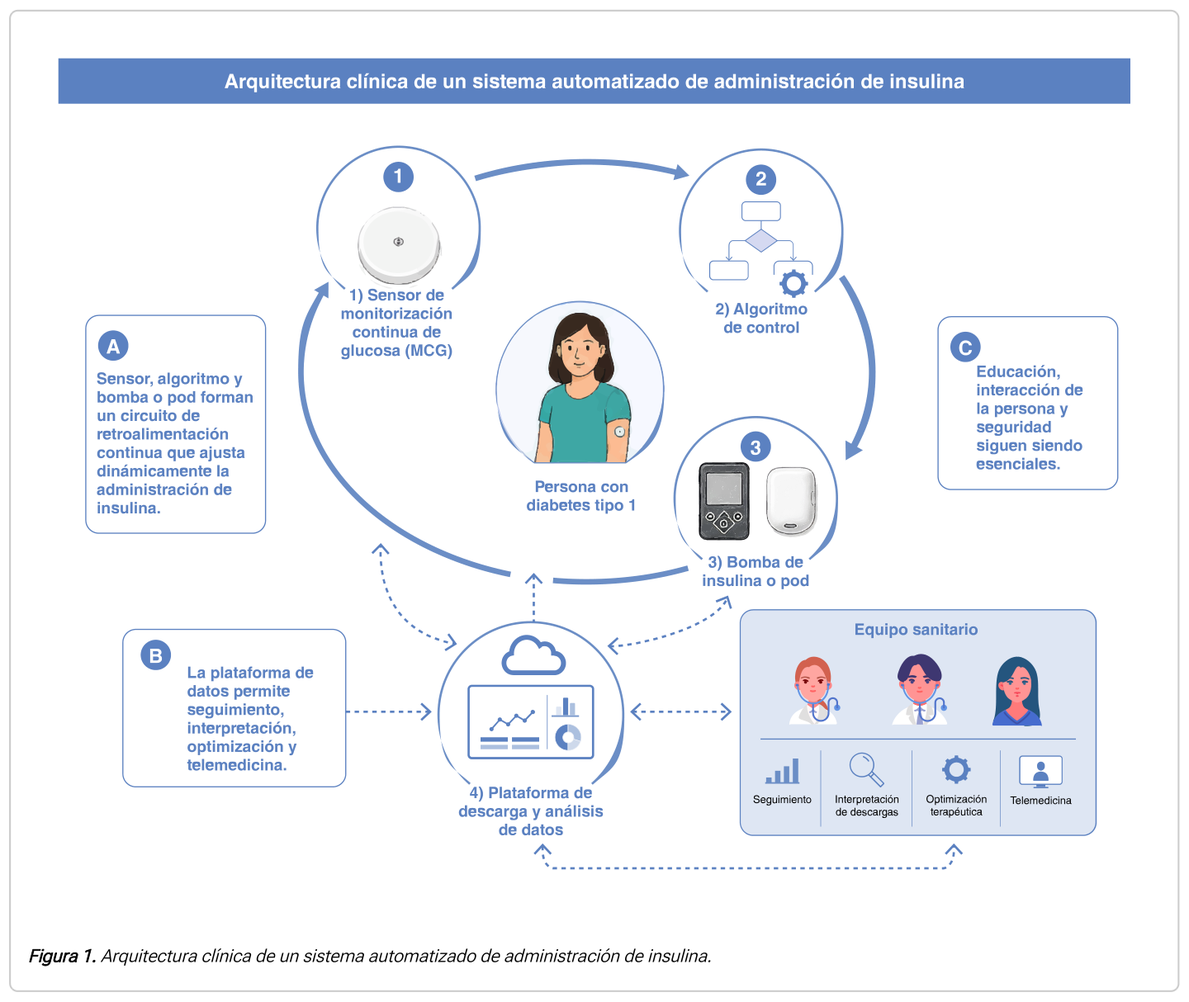
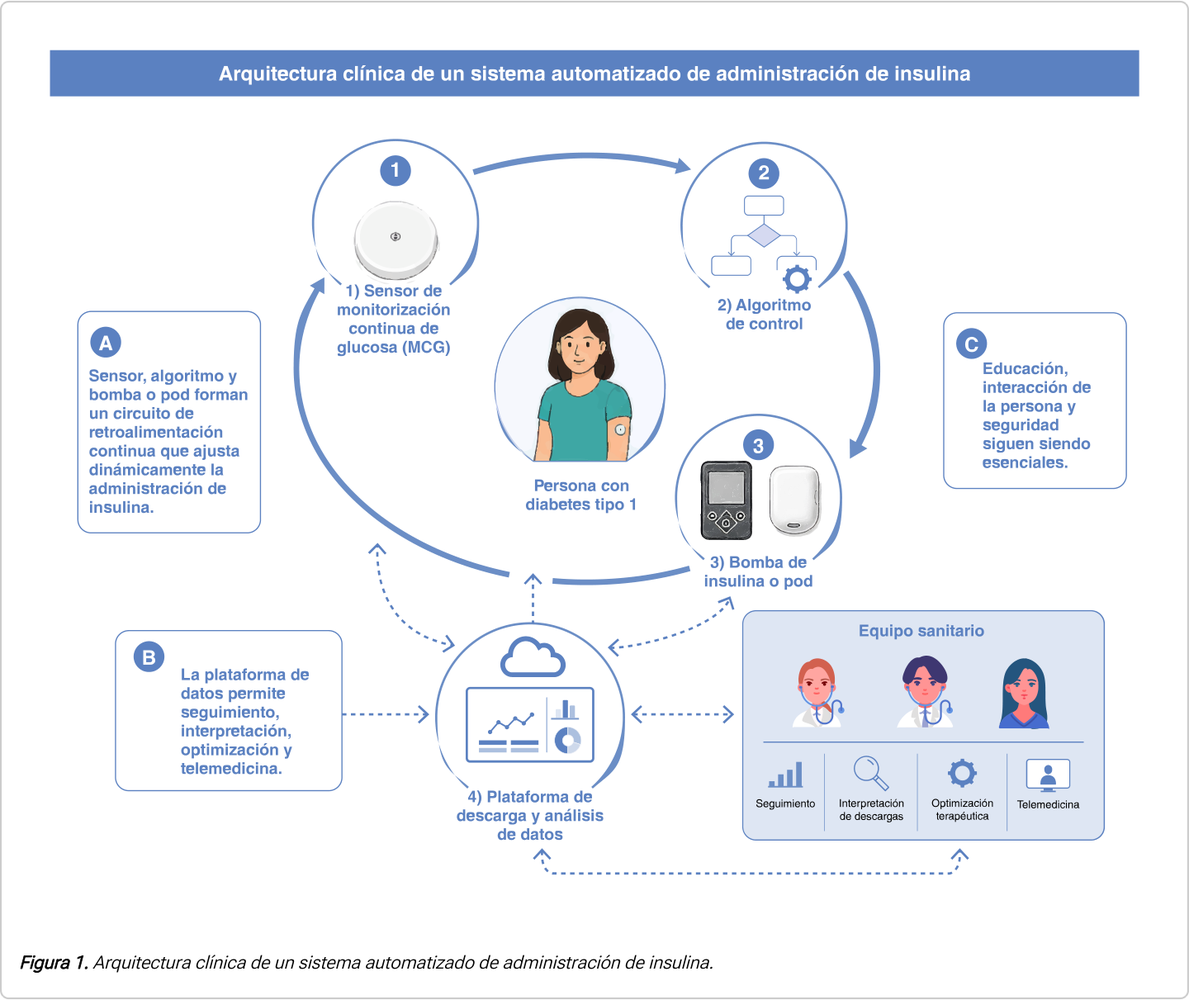
0.11.0: el capítulo de la maquetación del 5-10-2026
- Fuente única: la maquetación de ec-europe del 5-10-2026, que ya trae las
  11 correcciones del 30-9; se aplican las 3 correcciones finales anotadas
  por el autor (Control-IQ+ en la Tabla 1, iSGLT2 en la p. 15 y DOI de la
  ref. 6). Con iSGLT2 ya no hay umbral rebajado a 200 mg/dl: sale de las
  cifras y de las tarjetas.
- Páginas al día (apartado 7, pp. 8-10; Tabla 3 en la p. 11).
- Figuras 1-3 e infografía recortadas de la nueva maquetación (vectorial,
  1440 px, sin anotaciones, WebP sin pérdida), ya con las correcciones.
- Información para pacientes: la maquetación del 5-10 es igual a la V5.
- Auditoría: pie de página genérico en fidelidad.py y PDF nuevo por defecto.

diff --git a/src/contenido/cambios.ts b/src/contenido/cambios.ts
@@ -8,13 +8,35 @@ export interface Cambio {
   detalle: string[];
 }
 
-export const VERSION_APP = "0.10.0";
+export const VERSION_APP = "0.11.0";
 
 export const CAMBIOS: Cambio[] = [
   {
+    fecha: "2026-10-06",
+    ambito: "app",
+    titulo: `Manual SEEN · AID ${VERSION_APP} — el capítulo de la maquetación del 5-10-2026`,
+    detalle: [
+      "El texto pasa a la última maquetación de la editorial (5-10-2026), que ya incorpora las 11 correcciones del 30-9. La app aplica además las 3 correcciones finales que el autor ha anotado en ella.",
+      "Resolución de incidencias (p. 15): en personas tratadas con iSGLT2 ya no se habla de rebajar el umbral a 200 mg/dl; «debe mantenerse una alta sospecha de cetoacidosis y medirse la cetonemia ante síntomas o situaciones de riesgo, con independencia del nivel de glucemia». Esa cifra sale de «Cifras del apartado» y de las tarjetas.",
+      "La Figura 3, la infografía y las Figuras 1 y 2 se ven ahora con la imagen de la nueva maquetación, más nítida y ya con las correcciones de la editorial (la columna amarilla de la cetonemia, la nota del asterisco de las dosis, «DM1», «En modalidades híbridas»…).",
+      "Páginas al día con la nueva maquetación: el final del párrafo de la hipoglucemia pasa a la p. 9, «Capacitación del equipo asistencial» a la p. 10 y la Tabla 3 a la p. 11.",
+      "La información para pacientes que maqueta la editorial el 5-10-2026 es ya, palabra por palabra, la versión V5 del autor que mostraba la app.",
+    ],
+  },
+  {
+    fecha: "2026-10-05",
+    ambito: "capitulo",
+    titulo: "Capítulo: nueva maquetación con 3 correcciones finales",
+    detalle: [
+      "La editorial (ec-europe) entrega una nueva maquetación de 25 páginas con las 11 correcciones del 30-9 incorporadas en el texto, las tablas, la Figura 3 y la infografía.",
+      "El autor anota 3 correcciones finales, que esta app ya aplica: la indicación de Control-IQ+ en la Tabla 1 («peso 9–200 kg, DTD 5–200 UI/día»), la frase sobre los iSGLT2 de la p. 15 y el DOI de la referencia 6.",
+      "La información para pacientes maquetada coincide con la versión V5 del autor.",
+    ],
+  },
+  {
     fecha: "2026-10-04",
     ambito: "app",
-    titulo: `Manual SEEN · AID ${VERSION_APP} — más fácil de usar y un buscador que entiende mejor`,
+    titulo: "Manual SEEN · AID 0.10.0 — más fácil de usar y un buscador que entiende mejor",
     detalle: [
       "El buscador entiende mejor la forma de preguntar: palabras de la calle («bajada», «me pita», «el parche», «bultos en la barriga», «hidratos de mentira»), faltas de ortografía («bomitos», «asucar»), verbos y edades («mi hijo de 1 año», «mi madre tiene 80 años»), siglas por su nombre («dosis total diaria» = DTD) y cifras de cetonemia escritas delante («0,3 de cetonas»).",
       "Si dos frases del mismo párrafo responden, salen juntas. Si nada responde de lleno, o la respuesta es dudosa, se rotula «Lo más cercano en el capítulo» en lugar de presentarla como la respuesta; y si no hay nada, propone las situaciones de «¿Qué necesitas?».",
@@ -233,12 +255,12 @@ export const CAMBIOS: Cambio[] = [
 export const PENDIENTES: string[] = [
   "El permiso de la SEEN y de la editorial (ec-europe) para esta versión web, y dónde se alojará.",
   "Que el autor valide las diez preguntas del test (hoy, «pendiente de validación del autor»).",
-  "La versión de la editorial con las 11 correcciones del capítulo (esta app ya las aplica).",
+  "Que la editorial pase al capítulo las 3 correcciones finales del autor del 5-10-2026 (esta app ya las aplica).",
   "El ISBN y la fecha de publicación del capítulo en el Manual SEEN, para «Cómo citar».",
 ];
 
 export const NOTAS_AUTOR: string[] = [
-  "Que la editorial publique la información para pacientes en la versión corregida V5 del autor, que es la que muestra esta app.",
+  "Dos detalles de la Figura 3 que pedía la corrección 5/11 y que la maquetación del 5-10-2026 no deja del todo: en la columna roja sigue «pauta especifica» sin tilde (la transcripción de la app la lleva) y las líneas que bajan a las columnas amarilla y naranja no tienen punta de flecha, a diferencia de las de los extremos.",
   "Las diferencias entre el capítulo y la ampliación del autor (asistente-aid): ratio I/HC, tipo de algoritmo de Control-IQ, autocorrección de MiniMed 780G, fecha de verificación y otras (auditoría del 2-10-2026). Llevan la marca «Difiere del capítulo» en la ficha la ratio I/HC, el tipo de algoritmo de Control-IQ y la autocorrección de la 780G; el resto, hasta que el autor decida, solo figura aquí.",
   "Tres matices de la versión extendida frente al capítulo, para que el autor decida si los deja, los precisa o los retira: E04 («ajustar si hay hiperglucemia persistente», cuando el capítulo pide descartar antes fallo de infusión), E28 («el objetivo se eleva antes de reducir el bolo, no en paralelo») y E07 (control desde el móvil, cuando en España es con el controlador).",
   "Dos frases de la información para pacientes V5 que el autor puede querer completar con el capítulo: los 5-10 g de hidratos en la hipoglucemia (sin la condición de 54-70 mg/dl y flecha estable) y la desconexión de la bomba con tubo (sin «suspender o pausar la administración»).",

diff --git a/src/pantallas/Otras.tsx b/src/pantallas/Otras.tsx
@@ -381,6 +381,14 @@ function NotasAutor() {
 }
 
 /* ---------- Sobre esta versión ---------- */
+/* Anotadas por el autor en la maquetación del 5-10-2026; la editorial aún no las ha pasado. */
+const CORRECCIONES_FINALES = [
+  "Final 1/3 (p. 4, Tabla 1, Control-IQ+): «peso 9–200 kg, DTD 5–200 UI/día».",
+  "Final 2/3 (p. 15, Resolución de incidencias): con iSGLT2 ya no se rebaja el umbral a 200 mg/dl; «debe mantenerse una alta sospecha de cetoacidosis y medirse la cetonemia ante síntomas o situaciones de riesgo, con independencia del nivel de glucemia».",
+  "Final 3/3 (p. 25, bibliografía): «doi:10.2337/dci26-0122» al final de la referencia 6.",
+];
+
+/* Las 11 del 30-9-2026: la maquetación del 5-10-2026 ya las trae. */
 const CORRECCIONES = [
   "1/11 (p. 3): «control predictivo basado en modelo (MPC) y lógica difusa».",
   "2/11 (pp. 3–4): «Sistemas AID comercializados en España» en el texto y en el título de la Tabla 1.",
@@ -391,9 +399,8 @@ const CORRECCIONES = [
   "7/11 (p. 11, Tabla 4): fila «Ejercicio anaeróbico o de alta intensidad» reconstruida como fila normal con una celda común a los cuatro sistemas.",
   "8/11 (p. 21, Tabla 6): «Tomografía computarizada (TC)».",
   "9/11 (p. 24, infografía): «En modalidades híbridas»; «Requieren anuncio de comidas y bolo prandial»; «DM1»; «Mejora consistente del control glucémico con buen perfil de seguridad»; «Bomba de insulina o pod»; «Iniciar».",
-  "10/11 (p. 24, bibliografía): referencia 6 completa (Holt RIG et al., Diabetes Care 2026, doi:10.2337/dci26-0122).",
+  "10/11 (pp. 24–25, bibliografía): referencia 6 completa (Holt RIG et al., Diabetes Care 2026); el DOI es la corrección final 3/3.",
   "11/11 (encabezado gráfico de todas las páginas): no afecta al texto; no aplica a la app.",
-  "Errata que el autor corregirá en la editorial, ya aplicada aquí (Tabla 1, Control-IQ+): «peso 9–200 kg, DTD 5–200 UI/día».",
 ];
 
 export function Sobre() {
@@ -430,10 +437,10 @@ export function Sobre() {
         <h2 className="mt-5 text-base font-extrabold text-slate-900">Fuente única</h2>
         <p className="mt-2 text-sm">
           El texto es el del capítulo, literal, de la maquetación final del {CAPITULO.fechaFuente} (
-          {CAPITULO.editorial}, {CAPITULO.paginas} páginas), con las 11 correcciones editoriales
-          anotadas aplicadas. Cada bloque lleva la página de origen. No hay contenido inventado ni
-          traído de otras fuentes; las figuras, que en el PDF son imágenes, están transcritas caja a
-          caja.
+          {CAPITULO.editorial}, {CAPITULO.paginas} páginas), que ya incorpora las 11 correcciones
+          editoriales del 30-9-2026, con las 3 correcciones finales anotadas por el autor aplicadas.
+          Cada bloque lleva la página de origen. No hay contenido inventado ni traído de otras
+          fuentes; las figuras, que en el PDF son imágenes, están transcritas caja a caja.
         </p>
         <h2 className="mt-5 text-base font-extrabold text-slate-900">
           El capítulo y, aparte, lo que no es del capítulo
@@ -453,9 +460,9 @@ export function Sobre() {
             de cada sistema, validada en su proyecto asistente-aid, con sus fuentes.
           </li>
           <li>
-            <strong>Para el paciente</strong>: la información para pacientes (versión corregida V5
-            del autor) y el resumen del capítulo (maquetación de la editorial), literales; y el plan
-            de seguridad de cada sistema, hecho solo con texto del capítulo.
+            <strong>Para el paciente</strong>: la información para pacientes y el resumen del
+            capítulo, literales, tal como los maqueta la editorial; y el plan de seguridad de cada
+            sistema, hecho solo con texto del capítulo.
           </li>
           <li>
             <strong>Autoevaluación</strong>: las preguntas del autor, rotuladas «pendiente de
@@ -491,6 +498,24 @@ export function Sobre() {
         <h2 id="s-corr" className="text-base font-extrabold text-slate-900">
           Correcciones editoriales aplicadas
         </h2>
+        <h3 className="mt-3 text-sm font-bold text-slate-900">
+          Las 3 correcciones finales del autor (maquetación del 5-10-2026)
+        </h3>
+        <ol className="mt-2 space-y-1 text-sm text-slate-700">
+          {CORRECCIONES_FINALES.map((c, i) => (
+            <li key={i} className="flex gap-2">
+              <CheckCircle2
+                size={15}
+                className="mt-0.5 shrink-0 text-emerald-700"
+                aria-hidden="true"
+              />
+              <span>{c}</span>
+            </li>
+          ))}
+        </ol>
+        <h3 className="mt-4 text-sm font-bold text-slate-900">
+          Las 11 del 30-9-2026, que la maquetación del 5-10-2026 ya incorpora
+        </h3>
         <ol className="mt-2 space-y-1 text-sm text-slate-700">
           {CORRECCIONES.map((c, i) => (
             <li key={i} className="flex gap-2">

diff --git a/src/contenido/apartados/07-09.ts b/src/contenido/apartados/07-09.ts
@@ -60,14 +60,14 @@ export const A07: Apartado = {
     {
       t: "p",
       p: 8,
+      p2: 9,
       texto:
         "En determinados episodios de hipoglucemia leve, sobre todo cuando el algoritmo ya ha reducido o suspendido la infusión y no existe insulina activa relevante, pueden bastar cantidades menores que la regla clásica de 15 g: como orientación, 5-10 g ante glucemia 54-70 mg/dl con flecha estable o ascendente, reservando cantidades en torno a 15 g para glucemia < 54 mg/dl, doble flecha descendente o insulina activa significativa. Debe reevaluarse con glucosa capilar a los 15 min y evitarse el sobretratamiento; la evidencia específica en AID es aún limitada, por lo que conviene individualizar. Los hidratos para tratar la hipoglucemia no deben anunciarse como comida; en CamAPS FX existe la opción de registrarlos como “tratamiento de hipoglucemia”, que los documenta y suaviza la entrega de insulina sin contabilizarlos como ingesta.",
     },
     { t: "diagrama", p: 8, id: "hipoglucemia" },
     {
       t: "p",
-      p: 8,
-      p2: 9,
+      p: 9,
       texto:
         "La segunda regla es que toda hiperglucemia persistente sin causa clara debe hacer sospechar fallo de infusión hasta demostrar lo contrario. Esta regla debe enseñarse en el PEET, practicarse con casos y quedar por escrito.",
     },
@@ -114,11 +114,10 @@ export const A07: Apartado = {
       texto:
         "En personas con alto riesgo de abandono de la tecnología, baja alfabetización digital, idioma diferente o ausencia de cuidador entrenado, el PEET debe simplificarse y priorizar objetivos de seguridad: manejo de hipoglucemia, hiperglucemia persistente, cuerpos cetónicos, recambio del sistema y pauta alternativa. La optimización fina de parámetros puede posponerse hasta confirmar que estas competencias básicas están consolidadas.",
     },
-    { t: "h3", p: 9, id: "capacitacion", texto: "Capacitación del equipo asistencial" },
+    { t: "h3", p: 10, id: "capacitacion", texto: "Capacitación del equipo asistencial" },
     {
       t: "p",
-      p: 9,
-      p2: 10,
+      p: 10,
       texto:
         "La implementación segura no depende solo de la educación de la persona, sino de la capacitación del equipo: conocer las diferencias entre sistemas, acompañar la elección, iniciar y configurar el dispositivo, interpretar descargas, optimizar parámetros y resolver incidencias son competencias que exigen formación específica y mantenimiento. Disponer de programas formativos escalonados y circuitos asistenciales claros reduce la variabilidad en el acceso y en la calidad; esta capacitación es más decisiva cuanto menor es la experiencia del equipo con un sistema concreto o mayor la complejidad del caso.",
     },
@@ -140,7 +139,7 @@ export const A08: Apartado = {
     },
     { t: "tabla", p: 10, id: "T2" },
     { t: "diagrama", p: 10, id: "transicion" },
-    { t: "tabla", p: 10, id: "T3" },
+    { t: "tabla", p: 11, id: "T3" },
     { t: "tabla", p: 11, id: "T4" },
     {
       t: "p",
@@ -282,7 +281,7 @@ export const A09: Apartado = {
       p: 15,
       lead: "Hiperglucemia persistente y sospecha de fallo de infusión.",
       texto:
-        "Una glucemia ≥ 250 mg/dl persistente (orientativamente ≥ 2 h) o cualquier hiperglucemia inexplicada que no responde a la corrección debe interpretarse como sospecha de fallo del set. En personas tratadas con iSGLT2 —por indicación cardiorrenal o fuera de ficha técnica en la DM1— conviene rebajar este umbral a 200 mg/dl y mantener alta la sospecha de cetoacidosis, que puede cursar con glucemia solo moderadamente elevada. Los signos a considerar incluyen ardor en la zona de inserción, despegado parcial del adhesivo, lectura errática del sensor en proximidad del set o ausencia de respuesta a las autocorrecciones. La actuación recomendada combina cambio del set, determinación de cetonemia y corrección con pluma según el plan de seguridad (v. Figura 3). La regla orientativa es “ante la duda, cambia el set”.",
+        "Una glucemia ≥ 250 mg/dl persistente (orientativamente ≥ 2 h) o cualquier hiperglucemia inexplicada que no responde a la corrección debe interpretarse como sospecha de fallo del set. En personas tratadas con iSGLT2 —por indicación cardiorrenal o fuera de ficha técnica en la DM1— debe mantenerse una alta sospecha de cetoacidosis y medirse la cetonemia ante síntomas o situaciones de riesgo, con independencia del nivel de glucemia, ya que puede cursar con glucemia normal o solo moderadamente elevada. Los signos a considerar incluyen ardor en la zona de inserción, despegado parcial del adhesivo, lectura errática del sensor en proximidad del set o ausencia de respuesta a las autocorrecciones. La actuación recomendada combina cambio del set, determinación de cetonemia y corrección con pluma según el plan de seguridad (v. Figura 3). La regla orientativa es “ante la duda, cambia el set”.",
     },
     {
       t: "lista",

diff --git a/src/contenido.test.ts b/src/contenido.test.ts
@@ -13,6 +13,7 @@ import {
   F2,
 } from "./contenido";
 import { PREGUNTAS } from "./contenido/test";
+import { CIFRAS } from "./contenido/cifras";
 import { idDeBloque, posicionDeAncla } from "./contenido";
 import { plano } from "./marcado";
 import { FRAGMENTOS_EXTENDIDOS, textoDeFragmento } from "./extendida";
@@ -171,10 +172,29 @@ describe("correcciones editoriales aplicadas", () => {
     expect(r6.cita).toContain("Peters AL");
     expect(r6.cita).not.toContain("{{{");
   });
-  it("errata del autor: Control-IQ+ peso 9–200 kg, DTD 5–200 UI/día", () => {
+  it("final 1/3 (5-10-2026): Control-IQ+ peso 9–200 kg, DTD 5–200 UI/día", () => {
     const ind = TABLAS.T1.filas.find((f) => f.etiqueta === "Indicación")!;
     expect(ind.celdas[1]).toContain("Control-IQ+: ≥ 2 años, peso 9–200 kg, DTD 5–200 UI/día");
     expect(todo).not.toContain("DTD 9–200 kg");
+  });
+  it("final 2/3 (5-10-2026): iSGLT2 sin umbral rebajado a 200 mg/dl", () => {
+    expect(todo).toContain(
+      "En personas tratadas con iSGLT2 —por indicación cardiorrenal o fuera de ficha técnica en la DM1— debe mantenerse una alta sospecha de cetoacidosis y medirse la cetonemia ante síntomas o situaciones de riesgo, con independencia del nivel de glucemia, ya que puede cursar con glucemia normal o solo moderadamente elevada.",
+    );
+    expect(todo).not.toContain("rebajar este umbral");
+    const cifras = Object.values(CIFRAS).flat();
+    expect(cifras.some((c) => c.etiqueta.includes("iSGLT2"))).toBe(false);
+  });
+  it("final 3/3 (5-10-2026): DOI al final de la referencia 6", () => {
+    expect(BIBLIOGRAFIA.find((r) => r.n === 6)!.doi).toBe("10.2337/dci26-0122");
+  });
+  it("paginación de la maquetación del 5-10-2026", () => {
+    const a7 = APARTADOS.find((a) => a.n === 7)!;
+    const cap = a7.bloques.find((b) => "id" in b && b.id === "capacitacion")!;
+    expect(cap.p).toBe(10);
+    expect(TABLAS.T3.paginas).toEqual([11, 11]);
+    const t3 = APARTADOS.flatMap((a) => a.bloques).find((b) => b.t === "tabla" && b.id === "T3")!;
+    expect(t3.p).toBe(11);
   });
 });
 
@@ -435,7 +455,7 @@ describe("capas fuera del capítulo", () => {
     expect(RESUMEN_CAPITULO.parrafos).toHaveLength(6);
     const todo = JSON.stringify({ INFORMACION_PACIENTES, RESUMEN_CAPITULO });
     expect(todo).not.toMatch(/\bDT[12]\b|mg\/dL|mmol\/L|\bAIT\b/);
-    // Correcciones de la V5 frente a la maquetación del 30-9 (muestra).
+    // Correcciones de la V5 frente a la maquetación del 30-9 (muestra); la del 5-10 ya las trae.
     expect(todo).toContain("una bomba (con tubo o catéter) o un pod (sin tubo externo)");
     expect(todo).toContain("Si la glucosa es >270 mg/dl, medir cetonas y revisar el set o el pod");
   });

diff --git a/src/contenido/figuras.ts b/src/contenido/figuras.ts
@@ -1,7 +1,7 @@
 /* Figuras 1 y 2 e infografía: en el PDF son imágenes; aquí, cada caja transcrita en texto,
    en orden de lectura. La infografía lleva las seis correcciones de la anotación 9/11.
-   Las imágenes de public/figuras/ son recortes de la maquetación del 30-9-2026 (provisionales,
-   a falta de los archivos fuente de la editorial). */
+   Las imágenes de public/figuras/ son recortes de la maquetación del 5-10-2026 (vectorial,
+   a 1440 px y sin anotaciones; provisionales, a falta de los archivos fuente de la editorial). */
 import type { Figura, FiguraId } from "./tipos";
 
 export const F1: Figura = {
@@ -14,7 +14,7 @@ export const F1: Figura = {
   imagen: {
     src: "figuras/figura-1.webp",
     alt: "Figura 1 del capítulo: diagrama circular con el sensor de MCG, el algoritmo de control, la bomba de insulina o pod y la plataforma de descarga, alrededor de la persona con diabetes tipo 1, y el equipo sanitario.",
-    nota: "Imagen de la maquetación del 30-9-2026 (provisional, a falta del archivo fuente).",
+    nota: "Imagen de la maquetación del 5-10-2026 (provisional, a falta del archivo fuente).",
   },
   cajas: [
     {
@@ -64,7 +64,7 @@ export const F2: Figura = {
   imagen: {
     src: "figuras/figura-2.webp",
     alt: "Figura 2 del capítulo: el perfil de la persona y las características del sistema confluyen en la decisión compartida, que lleva al sistema de asa cerrada más adecuado, con el contexto asistencial debajo.",
-    nota: "Imagen de la maquetación del 30-9-2026 (provisional, a falta del archivo fuente).",
+    nota: "Imagen de la maquetación del 5-10-2026 (provisional, a falta del archivo fuente).",
   },
   cajas: [
     {
@@ -130,7 +130,7 @@ export const INFO: Figura = {
   imagen: {
     src: "figuras/infografia.webp",
     alt: "Infografía del capítulo en cuatro bloques: beneficios, qué es un sistema de asa cerrada, indicación e implementación y seguimiento, con el plan de seguridad y la franja «No olvides».",
-    nota: "Imagen de la maquetación del 30-9-2026 (provisional, a falta del archivo fuente; las seis correcciones de la anotación 9/11 están aplicadas en el texto, no en la imagen).",
+    nota: "Imagen de la maquetación del 5-10-2026, que ya lleva las seis correcciones de la anotación 9/11 (provisional, a falta del archivo fuente).",
   },
   cajas: [
     {

diff --git a/src/ampliacion/fuentes.ts b/src/ampliacion/fuentes.ts
@@ -256,7 +256,7 @@ export const FUENTES: Record<string, Fuente> = {
     label:
       "Kyriakos G. · Capítulo «Tratamiento insulínico del paciente con diabetes mellitus tipo 1: automatización de la insulinoterapia» (Manual SEEN)",
     kind: "guia",
-    ref: "Manual SEEN de endocrinología (ec-europe) · ISBN 978-84-606-8570-8 · maquetación final del 30-9-2026 con las 11 correcciones editoriales del autor, pendiente de publicación · tablas de sistemas, transición desde MDI, parámetros por sistema, análisis de la descarga, Figura 3 (algoritmo de cetonemia con dosis orientativas 0,1 y 0,15 UI/kg en adultos), interrupción y pauta alternativa, situaciones especiales y Tabla 6 de exploraciones",
+    ref: "Manual SEEN de endocrinología (ec-europe) · ISBN 978-84-606-8570-8 · maquetación final del 5-10-2026 con las correcciones editoriales del autor, pendiente de publicación · tablas de sistemas, transición desde MDI, parámetros por sistema, análisis de la descarga, Figura 3 (algoritmo de cetonemia con dosis orientativas 0,1 y 0,15 UI/kg en adultos), interrupción y pauta alternativa, situaciones especiales y Tabla 6 de exploraciones",
     date: "2026",
     checked: "octubre de 2026",
   },

diff --git a/src/pacientes/textos.ts b/src/pacientes/textos.ts
@@ -1,7 +1,7 @@
 /* Textos para pacientes, LITERALES, del autor del capítulo. Capa «Para el paciente»: no es
    texto del capítulo y se muestra siempre rotulada.
-   · Información para pacientes: versión corregida V5 del autor (3-10-2026). La maquetación de la
-     editorial del 30-9-2026 es anterior a sus correcciones; el autor confirma que se publicará la V5.
+   · Información para pacientes: versión corregida V5 del autor. La maquetación de la editorial
+     del 5-10-2026 es idéntica a ella palabra por palabra (la del 30-9-2026 era anterior).
    · Resumen: maquetación de la editorial del 30-9-2026 (idéntica palabra por palabra a la V6 del autor).
    Generado desde los .docx del autor; la auditoría (scripts/auditoria/fidelidad_extra.py) lo comprueba.
    No editar a mano. */
@@ -18,7 +18,7 @@ export const AUTOR_PACIENTES =
 
 export const INFORMACION_PACIENTES = {
   rotulo: "Información para pacientes",
-  fuente: "Versión corregida V5 del autor (3-10-2026)",
+  fuente: "Maquetación de la editorial (ec-europe, 5-10-2026), igual a la versión V5 del autor",
   secciones: [
     {
       pregunta: "¿Qué es un sistema de asa cerrada?",

diff --git a/src/contenido/tablas.ts b/src/contenido/tablas.ts
@@ -1,7 +1,7 @@
-/* Las seis tablas del capítulo, literales (PDF 30-9-2026). Correcciones aplicadas:
-   3/11 (Tabla 1, Omnipod 5, indicación), 6/11 (Tabla 3, «mg/dl»), 7/11 (Tabla 4, fila
-   «Ejercicio anaeróbico» reconstruida), 8/11 (Tabla 6, «computarizada») y la errata que
-   el autor corregirá en la editorial (Tabla 1, Control-IQ+: «peso 9–200 kg, DTD 5–200 UI/día»). */
+/* Las seis tablas del capítulo, literales (PDF 5-10-2026, que ya trae las correcciones 3/11
+   —Tabla 1, Omnipod 5, indicación—, 6/11 —Tabla 3, «mg/dl»—, 7/11 —Tabla 4, fila «Ejercicio
+   anaeróbico» reconstruida— y 8/11 —Tabla 6, «computarizada»—). Aplicada además la corrección
+   final 1/3 (Tabla 1, Control-IQ+: «peso 9–200 kg, DTD 5–200 UI/día»), anotada en el PDF. */
 import type { Tabla, TablaId } from "./tipos";
 
 export const SISTEMAS = [
@@ -209,7 +209,7 @@ export const T3: Tabla = {
   id: "T3",
   numero: 3,
   titulo: "Ajuste práctico de los parámetros clásicos por sistema",
-  paginas: [10, 11],
+  paginas: [11, 11],
   cabeceraEtiqueta: "Aspecto práctico",
   columnas: [...SISTEMAS],
   porSistema: true,

diff --git a/src/componentes/figura3-imagen.ts b/src/componentes/figura3-imagen.ts
@@ -1,4 +1,4 @@
-/* La imagen de la Figura 3 (maquetación 30-9-2026), como `Figura` mínima para reutilizar
+/* La imagen de la Figura 3 (maquetación 5-10-2026), como `Figura` mínima para reutilizar
    el plegable «Ver la figura original». La transcripción vive en src/contenido/figura3.ts. */
 import type { Figura } from "../contenido";
 import { FIGURA3 } from "../contenido";
@@ -12,6 +12,6 @@ export const INFO_F3: Figura = {
   imagen: {
     src: "figuras/figura-3.webp",
     alt: "Figura 3 del capítulo: algoritmo en cuatro columnas según la cetonemia (verde, amarilla, naranja y roja), con los avisos de sospecha y comprobación arriba y la regla de oro abajo.",
-    nota: "Imagen de la maquetación del 30-9-2026 (provisional, a falta del archivo fuente). Las correcciones de la anotación 5/11 están aplicadas en el recorrido, no en la imagen.",
+    nota: "Imagen de la maquetación del 5-10-2026, que ya lleva la corrección 5/11 (provisional, a falta del archivo fuente).",
   },
 };

diff --git a/src/pantallas/Pacientes.tsx b/src/pantallas/Pacientes.tsx
@@ -1,5 +1,5 @@
-/* «Para el paciente»: información para pacientes (V5 del autor) y resumen (maquetación de la
-   editorial), literales; y la hoja «Plan de seguridad» de cada sistema, hecha SOLO con texto
+/* «Para el paciente»: información para pacientes (V5 del autor = maquetación del 5-10-2026) y
+   resumen (maquetación de la editorial), literales; y la hoja «Plan de seguridad» de cada sistema, hecha SOLO con texto
    del capítulo (pp. 7-9, Figura 3 y Tabla 4) y huecos para rellenar a mano. Cada hoja se imprime
    en una cara A4 (letra pequeña, dos columnas) o, a elegir, con letra grande (una columna,
    12 pt, a doble cara: dos o tres caras), y lleva un QR para abrirla en el móvil. La app no guarda nada de lo que se escribe:

diff --git a/src/respuestas.bancos.ts b/src/respuestas.bancos.ts
@@ -20,7 +20,10 @@ export const BANCO: [string, RegExp][] = [
   ["dosis de insulina con pluma si no hay plan", /0,1 UI\/kg/],
   ["qué beber con cetonas y glucosa baja", /líquidos azucarados/],
   ["la insulina de la pluma la cuenta el sistema como activa", /no contabiliza|NO la contabiliza/],
-  ["umbral de glucosa para sospechar fallo con iSGLT2", /200 mg\/dl/],
+  [
+    "umbral de glucosa para sospechar fallo con iSGLT2",
+    /alta sospecha de cetoacidosis|con independencia del nivel de glucemia/,
+  ],
   ["signos de cetoacidosis", /F3\/rojo|vómitos persistentes/],
   ["regla de oro", /REGLA DE ORO/],
   ["ante la duda cambia el set", /cambia el set/],

diff --git a/src/contenido/index.ts b/src/contenido/index.ts
@@ -26,8 +26,8 @@ export const CAPITULO = {
   sociedad: "Sociedad Española de Endocrinología y Nutrición (SEEN)",
   editorial: "ec-europe",
   /* Fecha de la maquetación final que sirve de fuente única a esta app. */
-  fechaFuente: "30 de septiembre de 2026",
-  fechaFuenteISO: "2026-09-30",
+  fechaFuente: "5 de octubre de 2026",
+  fechaFuenteISO: "2026-10-05",
   paginas: 25,
   /* Capítulo del Manual SEEN que precede a este (MDI), al que remite la introducción (p. 1). */
   continuaA: "Tratamiento insulínico del paciente con diabetes tipo 1: múltiples dosis de insulina",
